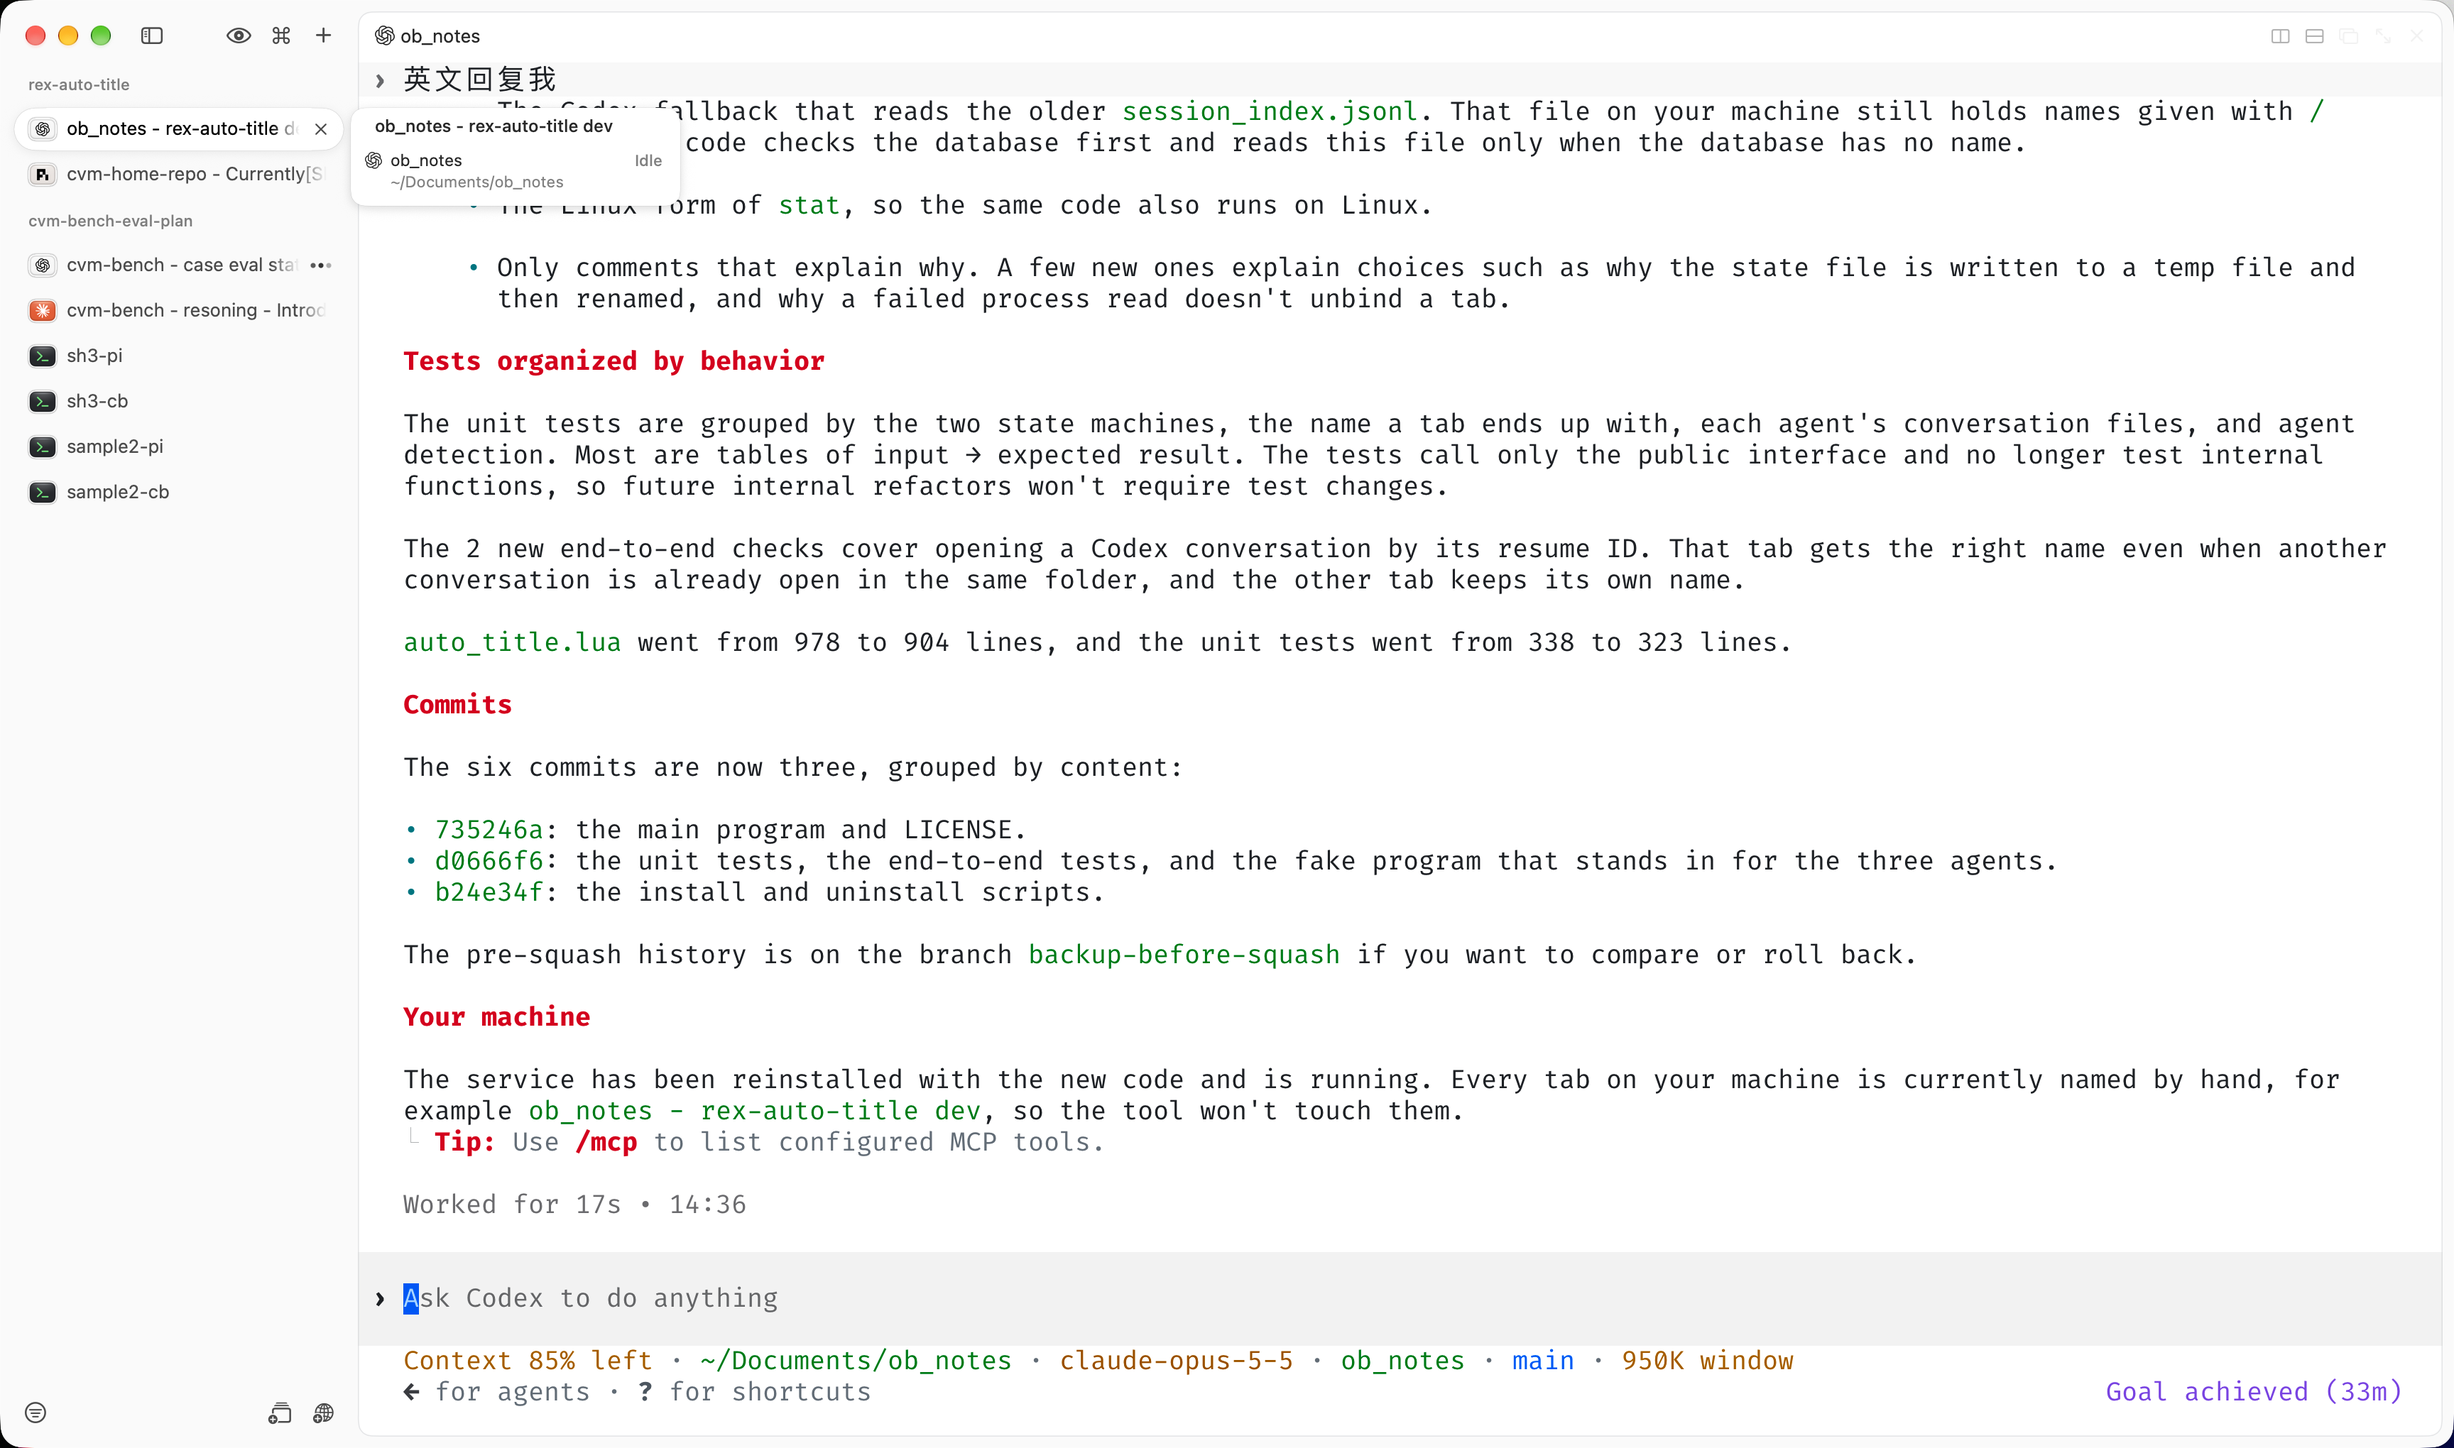
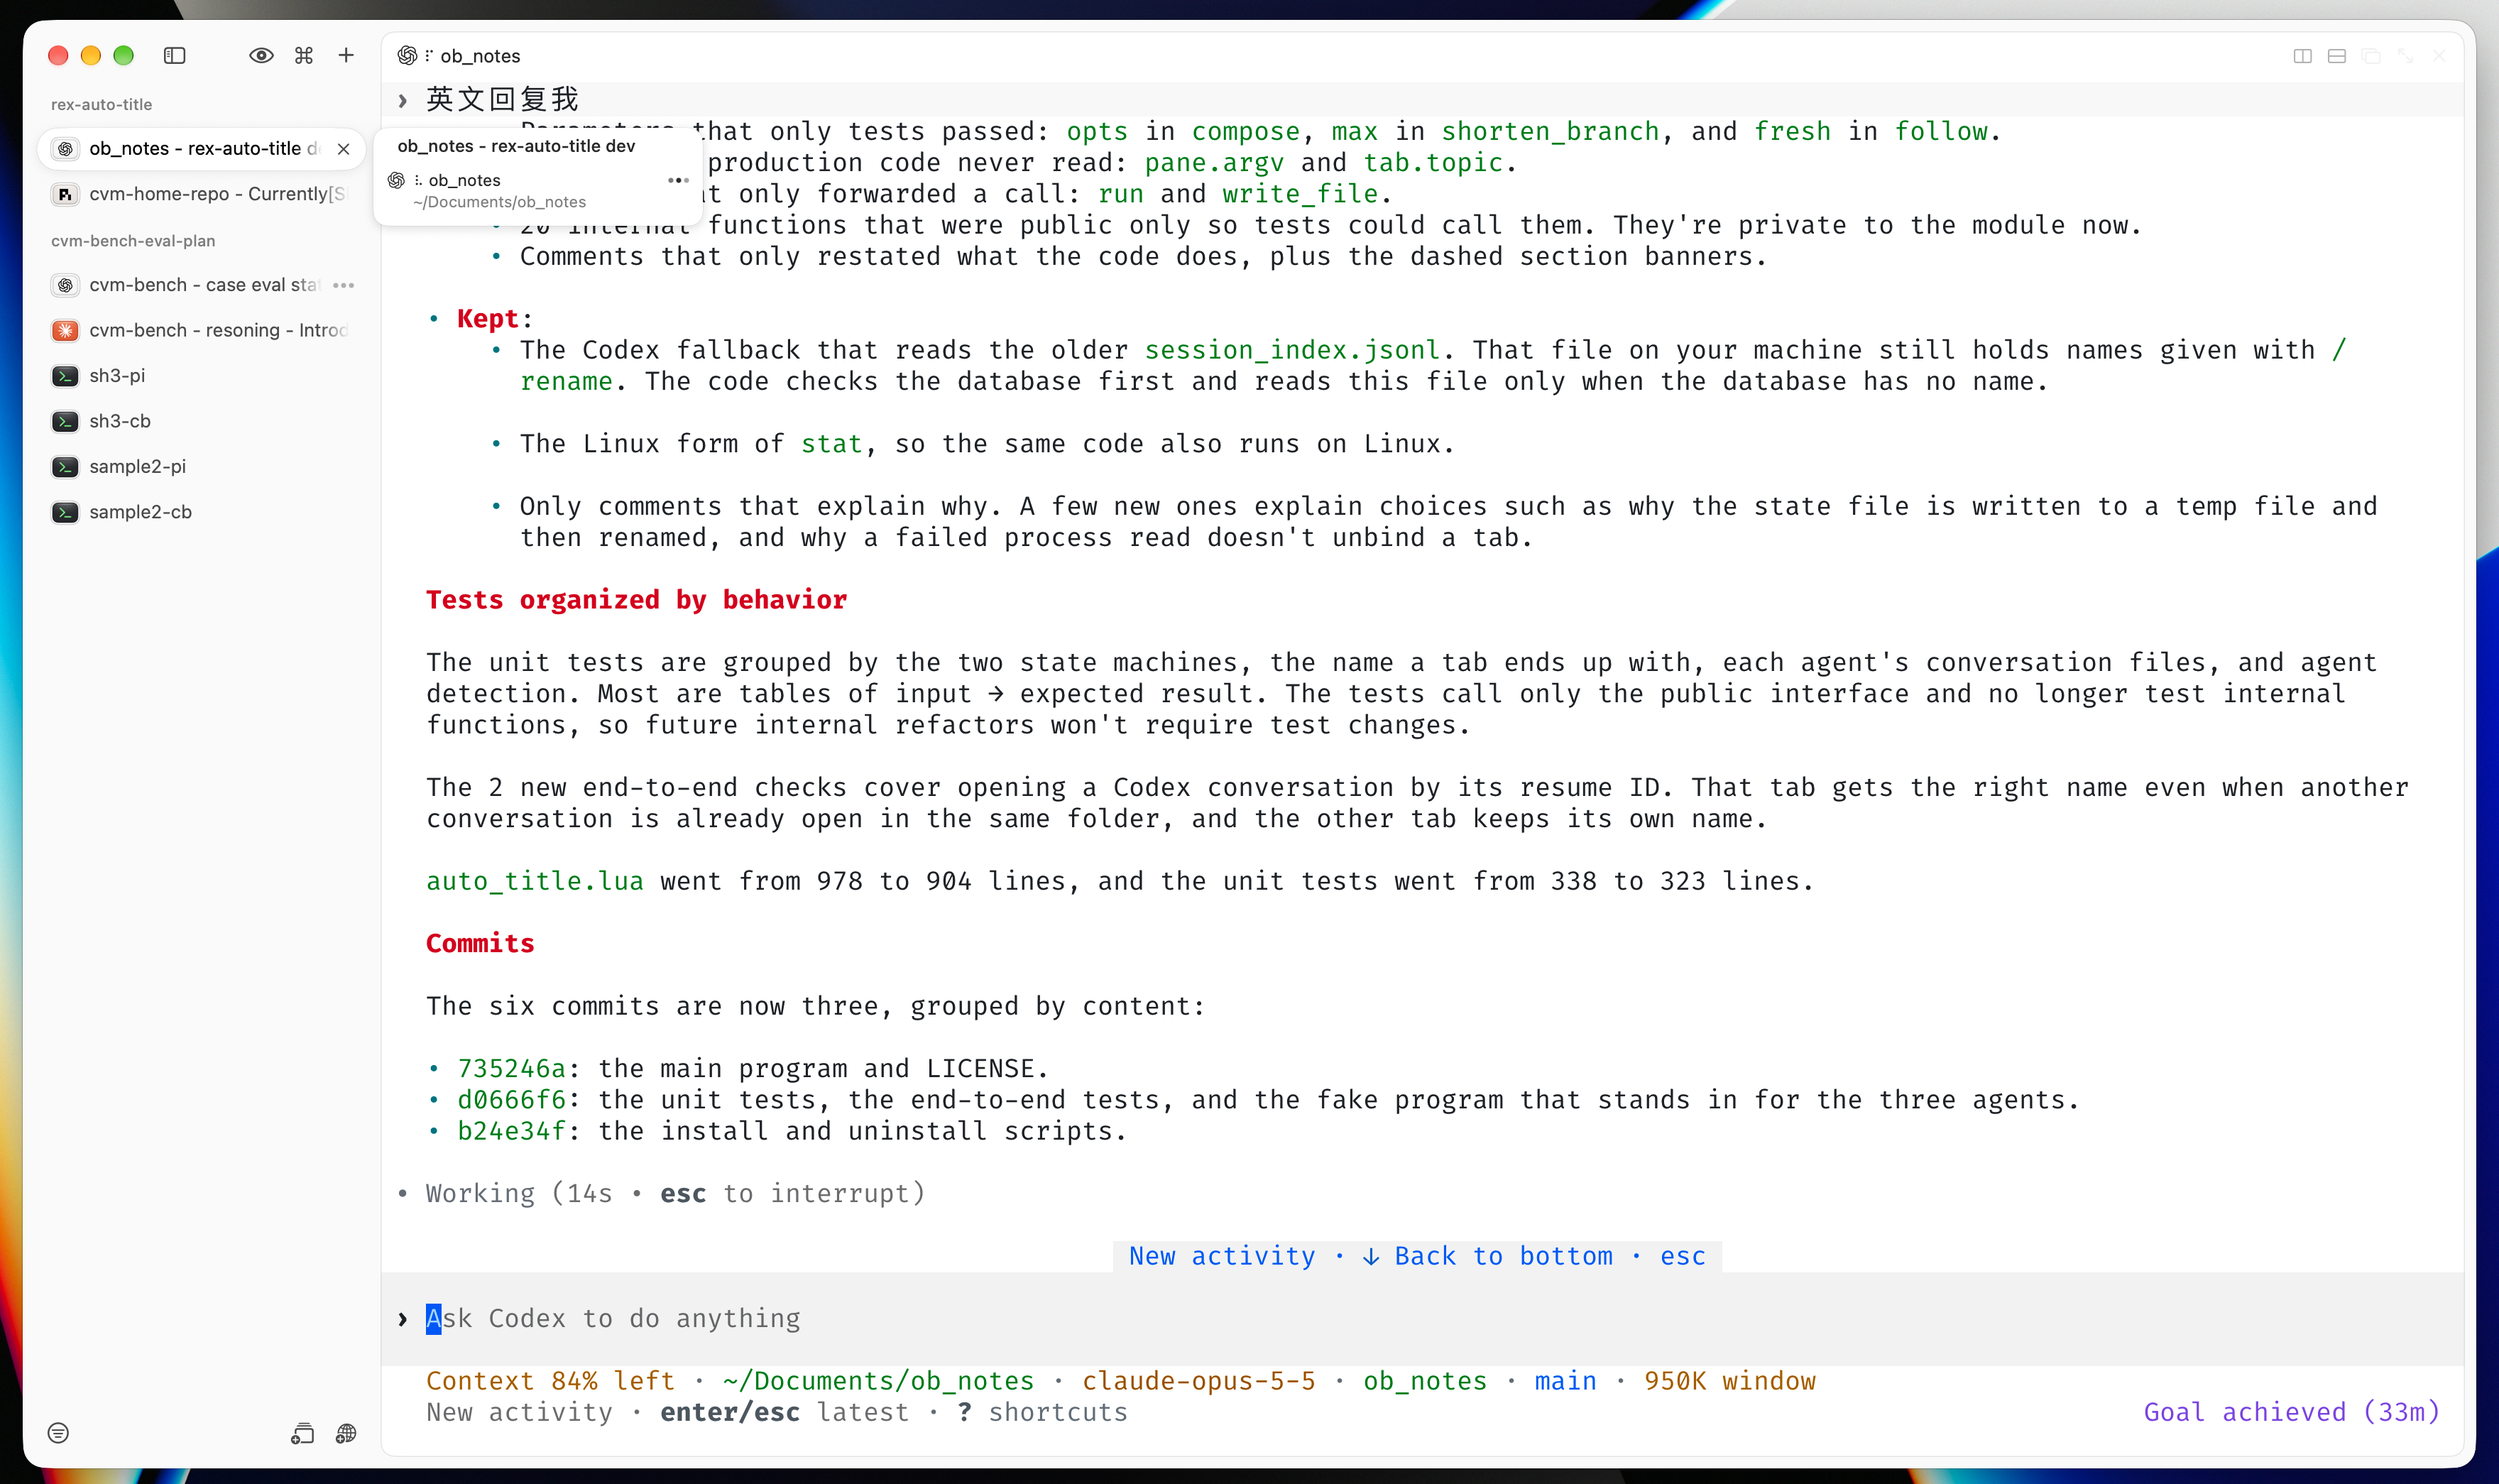
Install and uninstall with curl | sh

diff --git a/README.md b/README.md
@@ -14,17 +14,20 @@ stays yours; clear its name to hand it back.
 You need Rex on macOS or Linux, and `sqlite3` for Codex.
 
 ```sh
-git clone https://github.com/Ziy1-Tan/rex-auto-title.git
-cd rex-auto-title
-./install.sh
+curl -fsSL https://raw.githubusercontent.com/Ziy1-Tan/rex-auto-title/main/install.sh | sh
 ```
 
-This copies `auto_title.lua` and starts it as a login service (launchd on
+This installs `auto_title.lua` and starts it as a login service (launchd on
 macOS, a systemd user service on Linux) that renames tabs as they change. On
-macOS it logs to `~/Library/Logs/rex-auto-title.log`. Rerun `./install.sh` to
-update, and `./uninstall.sh` to remove it.
+macOS it logs to `~/Library/Logs/rex-auto-title.log`. Run the same line again
+to update. To remove it:
 
-To run it without the service:
+```sh
+curl -fsSL https://raw.githubusercontent.com/Ziy1-Tan/rex-auto-title/main/uninstall.sh | sh
+```
+
+From a clone, `./install.sh` and `./uninstall.sh` do the same with your local
+copy. To run it without the service:
 
 ```sh
 rex do auto_title.lua --all                # watch and rename
